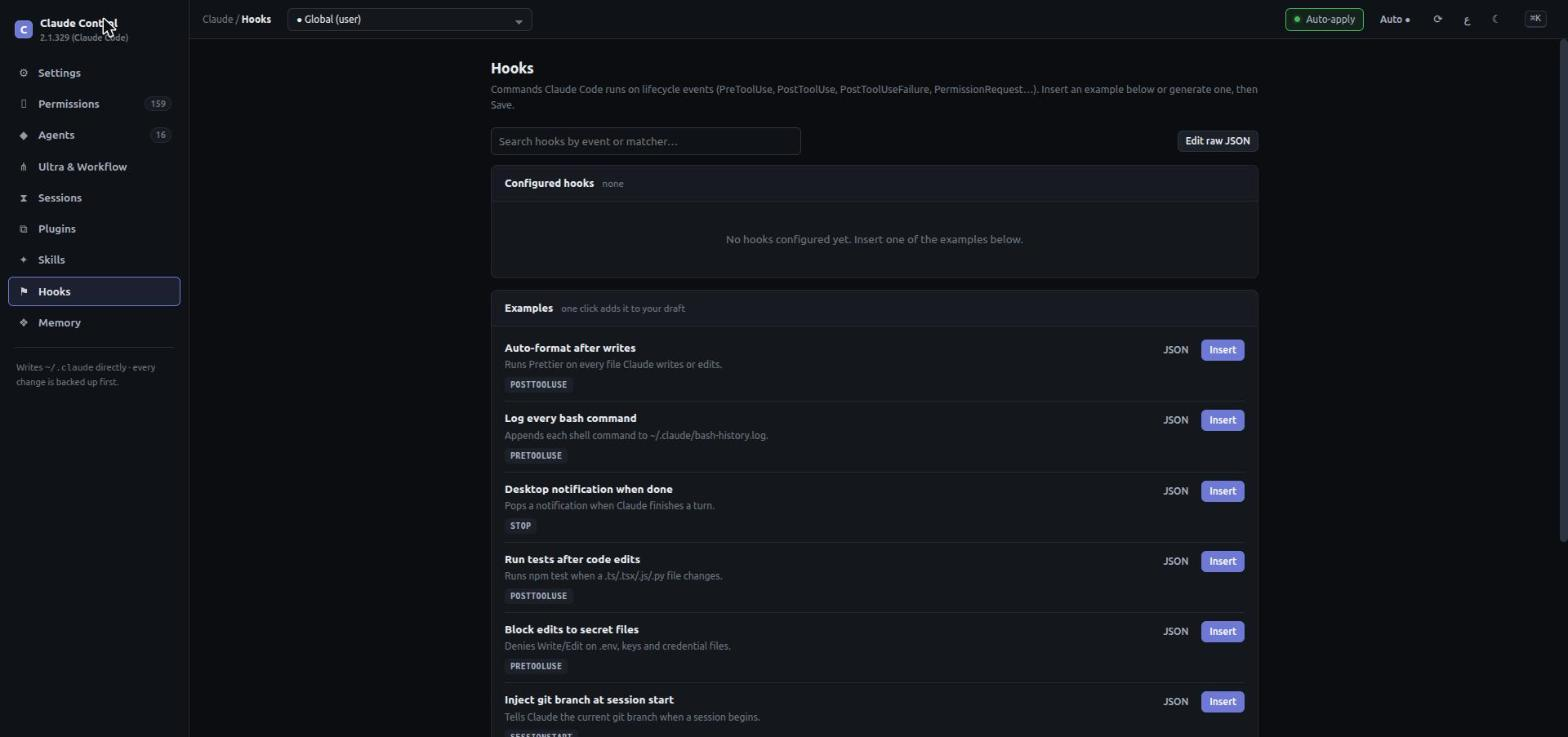
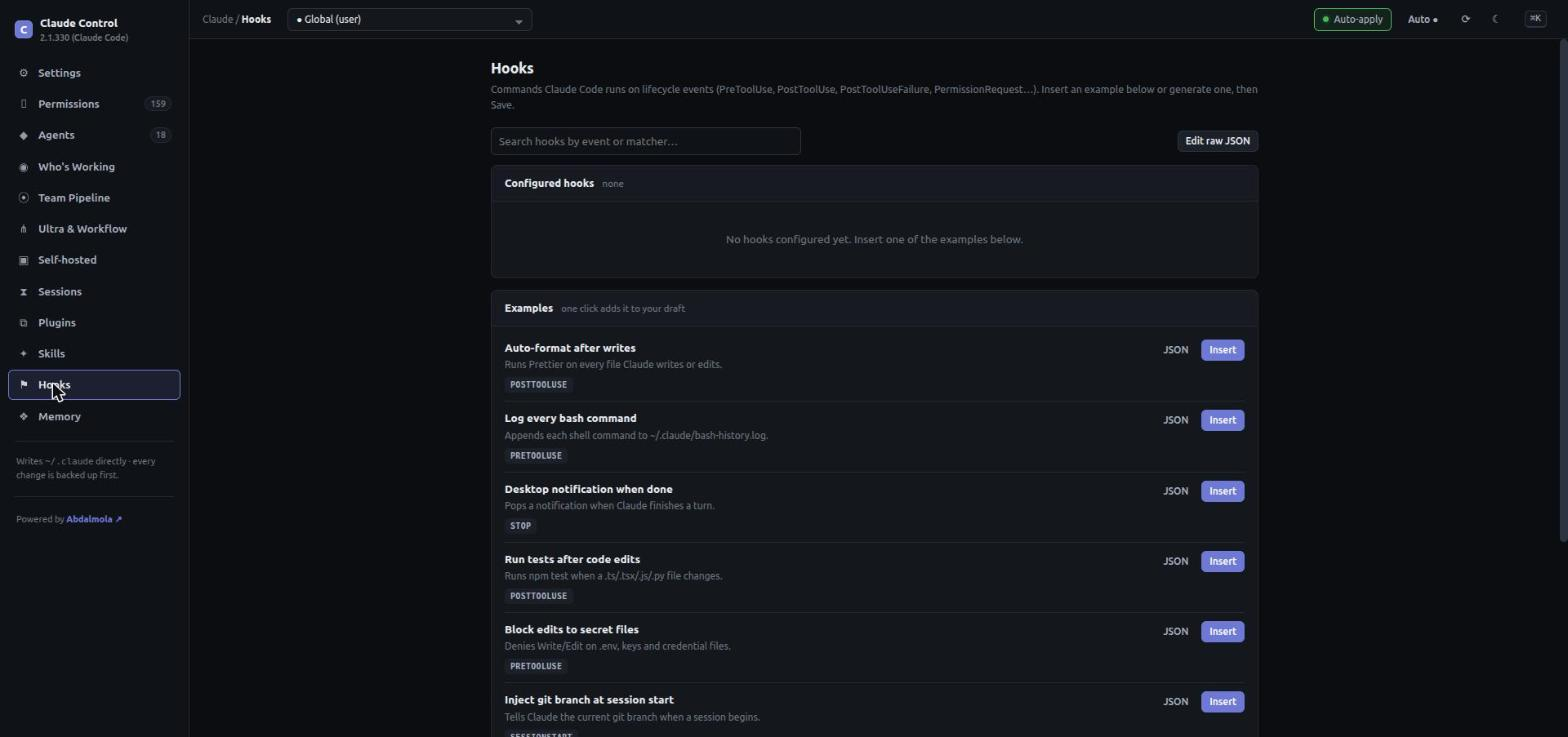
panel(team): default UI/UX Designer + Browser Tester roles; dark screenshots
- add UI/UX Designer (ui-ux-designer) and Browser Tester (browser-tester)
  as default pipeline roles so every new team ships design + browser QA
- recapture hooks.png and team-pipeline.png in dark theme so all three
  README screenshots share one look (ultra-workflow was already dark)
- team-pipeline.png now shows the 8-role odoo-engineering roster

diff --git a/frontend/src/pages/TeamPage.tsx b/frontend/src/pages/TeamPage.tsx
@@ -17,8 +17,10 @@ export const ROLE_TYPES: { value: RoleType; label: string; hint: string }[] = [
 const DEFAULT_ROLES: Role[] = [
   { key: "analyst", title: "Business Analyst", agent: "", type: "plan", enabled: true, instruction: "Analyze the request: define the scope, goals, and clear, numbered acceptance criteria." },
   { key: "requirements", title: "Requirements", agent: "", type: "plan", enabled: true, instruction: "Turn the analysis into concrete, testable, numbered requirements — no ambiguity, each independently verifiable." },
-  { key: "developer", title: "Developer", agent: "", type: "build", enabled: true, instruction: "Implement the requirements with focused diffs, following the project's existing conventions. Address any feedback from the previous cycle." },
+  { key: "uiux", title: "UI/UX Designer", agent: "ui-ux-designer", type: "build", enabled: true, instruction: "Design the UI/UX for the requirements: layout, flow, states and tokens. Treat RTL/Arabic, dark mode, mobile and accessibility (WCAG 2.2 AA) as first-class. Hand the developer a concrete spec." },
+  { key: "developer", title: "Developer", agent: "", type: "build", enabled: true, instruction: "Implement the requirements and the UI/UX spec with focused diffs, following the project's existing conventions. Address any feedback from the previous cycle." },
   { key: "qa", title: "QA Tester", agent: "", type: "check", enabled: true, instruction: "Test the implementation against every requirement. Set approved=false with the specific failing cases if anything fails." },
+  { key: "browser", title: "Browser Tester", agent: "browser-tester", type: "check", enabled: true, instruction: "Drive the running app in a real browser through the user flows. Check rendering in RTL/dark/mobile, read console and network errors, screenshot each state. Set approved=false with the failing steps and screenshots if anything breaks." },
   { key: "reviewer", title: "Reviewer", agent: "", type: "check", enabled: true, instruction: "Review the implementation and the QA report for correctness and quality. Approve, or set approved=false and list the exact changes still needed." },
   { key: "signoff", title: "Sign-off (BA)", agent: "", type: "signoff", enabled: true, instruction: "Decide whether the delivered product meets the acceptance criteria. Approve for deploy, or set approved=false and say what is missing." },
 ];
